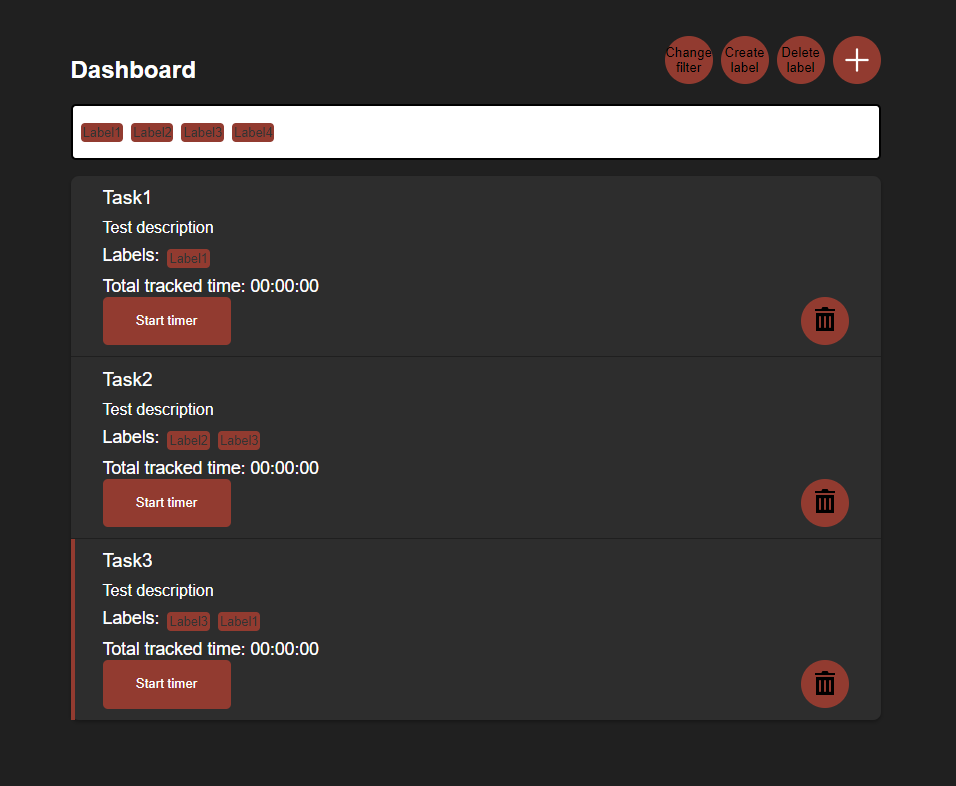
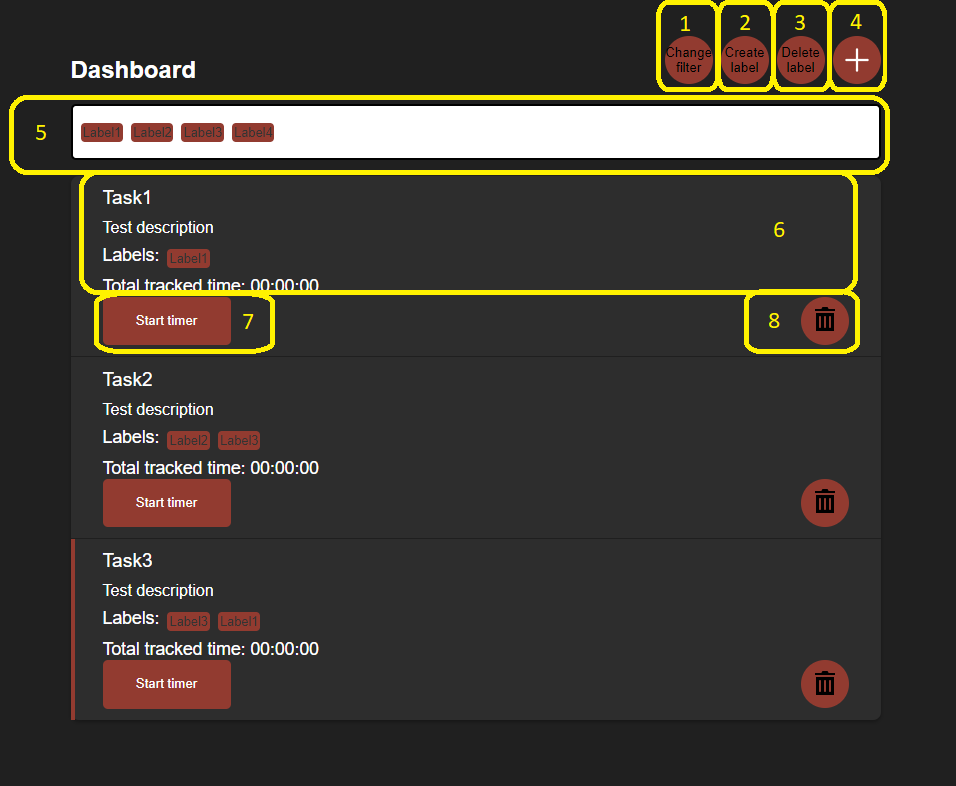
updated readme

Changed region(s): [[0.0, 0.0, 0.9404, 0.458], [0.7887, 0.2748, 0.819, 0.3053]]

diff --git a/app/frontend/src/pages/Dashboard/components/TrackTimeForm.tsx b/app/frontend/src/pages/Dashboard/components/TrackTimeForm.tsx
@@ -29,7 +29,8 @@ interface TrackTimeFormState {
   timeEnd: string;
 }
 
-export const TrackTimeForm: React.FC<{ afterSubmit: () => void; task: any; fetchTasks : () => void}> = ({
+
+export const TrackTimeForm: React.FC<{ afterSubmit: () => void; task: any; fetchTasks: () => void }> = ({
   afterSubmit,
   fetchTasks,
   task,
@@ -39,11 +40,13 @@ export const TrackTimeForm: React.FC<{ afterSubmit: () => void; task: any; fetch
   const [pause, setPause] = useState(false);
   const [stop, setStop] = useState(false);
 
-  const startDate = new Date(values.timeStart);
-
-
-  console.log("startTIme: ", startDate);
-
+  var startDate = new Date(values.timeStart);
+  if (localStorage.getItem("trackingStartDateLS") == "" || localStorage.getItem("trackingStartDateLS") == null) {
+    startDate = new Date();
+    localStorage.setItem("trackingStartDateLS", JSON.stringify(startDate.toString()));
+  } else {
+    startDate = new Date(localStorage.getItem("trackingStartDateLS")!);
+  }
 
   const getDateDifference = function (): string {
     const actualDate = new Date();
@@ -54,25 +57,41 @@ export const TrackTimeForm: React.FC<{ afterSubmit: () => void; task: any; fetch
 
   const [time, setTime] = useState(getDateDifference());
 
+
+  console.log("pause: ", pause);
+  useEffect(() => {
+    if (localStorage.getItem("trackingPauseLS") == "" || localStorage.getItem("trackingPauseLS") == null) {
+      localStorage.setItem("trackingPauseLS", "false");
+    } else {
+      setPause(localStorage.getItem("trackingPauseLS") == "true" ? true : false);
+    }
+
+    if (!(localStorage.getItem("trackingDescriptionLS") == "" || localStorage.getItem("trackingDescriptionLS") == null)) {
+      values.description = localStorage.getItem("trackingDescriptionLS")!;
+    }
+  }, []);
+
   useEffect(() => {
     //eslint-disable-next-line
     const timer = setTimeout(() => {
       if (!pause) setTime(getDateDifference());
+      else setTime("00:00:00");
     }, 1000);
   });
 
   const fieldDidChange = (e: ChangeEvent<HTMLInputElement>) => {
     setValues({ ...values, [e.target.name]: e.target.value });
+    if (e.target.name == "description") {
+      localStorage.setItem("trackingDescriptionLS", e.target.value);
+    }
   };
 
   const onSubmitForm = async (e: React.FormEvent<HTMLFormElement>) => {
-    console.log(pause);
+    console.log("onsubmitformpause: ", pause);
     e.preventDefault();
     values.timeEnd = new Date().toString();
-    console.log("onSubmitForm: ", values);
 
     if (pause || stop) {
-      console.log("post tracking");
       await fetch(`/api/trackings`, {
         method: "POST",
         headers: { "Content-Type": "application/json" },
@@ -83,10 +102,15 @@ export const TrackTimeForm: React.FC<{ afterSubmit: () => void; task: any; fetch
     }
     if (!stop) {
       if (!pause) {
-        setValues({ description: values.description, timeStart: new Date().toString(), timeEnd: values.timeEnd, taskId: values.taskId });
-        //startDate = new Date(values.timeStart);
+        const startDate = new Date().toString();
+        setValues({ description: values.description, timeStart: startDate, timeEnd: values.timeEnd, taskId: values.taskId });
+        localStorage.setItem("trackingStartDateLS", JSON.stringify(startDate.toString()));
+        localStorage.setItem("trackingPauseLS", "false");
+        console.log("1");
       } else {
         fetchTasks();
+        localStorage.setItem("trackingPauseLS", "true");
+        console.log("2");
       }
     } else {
       afterSubmit();
@@ -103,6 +127,7 @@ export const TrackTimeForm: React.FC<{ afterSubmit: () => void; task: any; fetch
           type="text"
           onChange={fieldDidChange}
           required
+          value={localStorage.getItem("trackingDescriptionLS")!}
           autoComplete="off"
         />
         <H2Styled>{time}</H2Styled>
@@ -120,7 +145,6 @@ export const TrackTimeForm: React.FC<{ afterSubmit: () => void; task: any; fetch
           </svg>
         </RoundedButton>
         <RoundedButton type="submit" onClick={() => {
-          console.log("pause clicked");
           if (values.description !== "") {
             setPause(!pause);
           }

diff --git a/app/frontend/src/pages/Dashboard/components/TaskList.tsx b/app/frontend/src/pages/Dashboard/components/TaskList.tsx
@@ -1,4 +1,4 @@
-import React from "react";
+import React, { useEffect } from "react";
 import styled from "styled-components";
 import { SmallButton } from "../../../components/SmallButton";
 import { DeleteButton } from "../../../components/DeleteButton";
@@ -177,7 +177,6 @@ export const TaskItem: React.FC<TaskItemProps> = ({
     return msToHMS(ms);
   }
 
-
   return (
     <TaskItemStyle>
       <TaskHighlight />
@@ -205,8 +204,16 @@ export const TaskItem: React.FC<TaskItemProps> = ({
       <div>
         <SmallButton disabled={props.taskId.toString() == taskId || props.taskId.toString() == 0 ? false : true}
           onClick={() => {
-            if (!(props.taskId.toString() == taskId)) onChange({ taskId: taskId, name: name });
-            else onChange({ taskId: 0, name: "" });
+            if (!(props.taskId.toString() == taskId)) {
+              onChange({ taskId: taskId, name: name });
+              localStorage.setItem("currentTaskTimerLS", JSON.stringify({ taskId: taskId, name: name }));
+            } else {
+              onChange({ taskId: 0, name: "" });
+              localStorage.setItem("currentTaskTimerLS", JSON.stringify({ taskId: 0, name: "" }));
+              localStorage.setItem("trackingStartDateLS", "");
+              localStorage.setItem("trackingPauseLS", "false");
+              localStorage.setItem("trackingDescriptionLS", "");
+            }
           }}>{props.taskId.toString() == taskId ? "cancel" : "Start timer"}</SmallButton>
         <DeleteButton onClick={() => {
           onClickDeleteButton();

diff --git a/app/frontend/src/pages/Dashboard/DashboardPage.tsx b/app/frontend/src/pages/Dashboard/DashboardPage.tsx
@@ -66,6 +66,9 @@ export const DashboardPage = () => {
     console.log("useEffect");
     fetchLabels();
     fetchTasks();
+    if(localStorage.getItem("currentTaskTimerLS")) {
+      setCurrentTaskTimer(JSON.parse(localStorage.getItem("currentTaskTimerLS")!));
+    }
   }, []);
 
 
@@ -194,6 +197,9 @@ export const DashboardPage = () => {
           <TrackTimeForm task={currentTaskTimer} fetchTasks={fetchTasks}
             afterSubmit={() => {
               setCurrentTaskTimer({ taskId: 0, name: "" });
+              localStorage.setItem("currentTaskTimerLS", JSON.stringify({ taskId: 0, name: "" }));
+              localStorage.setItem("trackingStartDateLS", "");
+              localStorage.setItem("trackingDescriptionLS", "");
               fetchTasks();
             }}></TrackTimeForm>
         </StyledFooter>

diff --git a/app/frontend/README.md b/app/frontend/README.md
@@ -7,7 +7,34 @@ As part of the course 'Fortgeschrittene Webentwicklung' we had to create a timet
 
 ## Functionality
 
+### Dashboard
 ![dashboard.png](./doc/dashboard.png "dashboard")
+1. Click here to change the filter. The following modal will come up:
+![filter.png](./doc/filter.png "filter")
+2. Click here to create a label. The following modal will come up:
+![addLabel.png](./doc/addLabel.png "add label")
+3. Click here to delete the filter. The following modal will come up:
+![deleteLabel.png](./doc/deleteLabel.png "delete label")
+4. Click here to create a task. The following modal will come up:
+![addTask.png](./doc/addTask.png "add task")
+5. Here are all available labels listed.
+6. Click here to visit the task detail site.
+7. Click here to start a new tracking of a specific task.
+8. Click here to delete a specific task
+
+### Task detail site
+![taskDetailSite.png](./doc/taskDetailSite.png "task detail site")
+1. Click here to add a label to the task. The following modal will come up:
+![addLabelToTask.png](./doc/addLabelToTask.png "add label to task")
+2. Click here to delete a label from the task. The following modal will come up:
+![deleteLabelToTask.png](./doc/deleteLabelFromTask.png "delete label to task")
+3. Click here to edit the task. The following modal will come up:
+![editTask.png](./doc/editTask.png "edit task")
+4. Click here to add a tracking to the task. The following modal will come up:
+![addTracking.png](./doc/addTracking.png "add tracking")
+5. Click here to edit a tracking. The following modal will come up:
+![editTracking.png](./doc/editTracking.png "edit tracking")
+6. Click here to delete a tracking
 
 ## License
 **The MIT License (MIT)**
